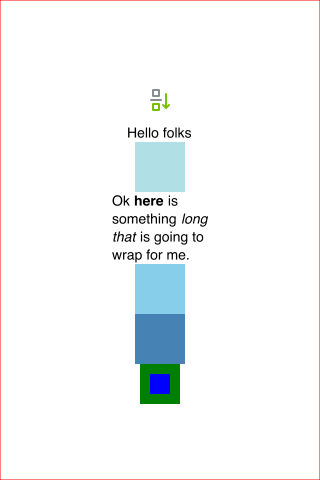
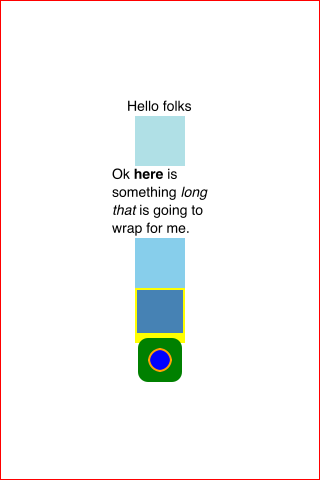
border it up

diff --git a/src/canvas/index.ts b/src/canvas/index.ts
@@ -7,24 +7,97 @@ import * as path from 'path'
 import drawText from './drawText'
 import fetch from 'node-fetch'
 
-import * as Canvas from 'canvas-prebuilt'
+import {createCanvas, Image} from 'canvas'
 
 const getOpacity = node => {
   const {opacity = 1} = styleFromComponent(node)
   return opacity
 }
 
-const renderRect = (ctx, {left, top, width, height}, style) => {
+const roundedPath = (ctx, radius, {top, left, width, height}, stroke) => {
+  ctx.beginPath();
+  top += stroke / 2
+  left += stroke / 2
+  width -= stroke
+  height -= stroke
+  ctx.moveTo(left + radius.tl, top);
+  ctx.lineTo(left + width - radius.tr, top);
+  ctx.arcTo(left + width, top, left + width, top + radius.tr, radius.tr);
+
+  ctx.lineTo(left + width, top + height - radius.br);
+  ctx.arcTo(left + width, top + height, left + width - radius.br, top + height, radius.br);
+
+  ctx.lineTo(left + radius.bl, top + height);
+  ctx.arcTo(left, top + height, left, top + height - radius.bl, radius.bl);
+
+  ctx.lineTo(left, top + radius.tl);
+  ctx.arcTo(left, top, left + radius.tl, top, radius.tl);
+
+  ctx.closePath();
+}
+
+const radiusFromStyle = (style, width, height) => {
+  const all = style.borderRadius || 0
+  const mx = width / 2
+  const my = height / 2
+  const mm = Math.min(mx, my)
+  return {
+    tl: Math.min(mm, style.borderTopLeftRadius || all),
+    tr: Math.min(mm, style.borderTopRightRadius || all),
+    bl: Math.min(mm, style.borderBottomLeftRadius || all),
+    br: Math.min(mm, style.borderBottomRightRadius || all)
+  }
+}
+
+const line = (ctx, y0, x0, y1, x1) => {
+  ctx.beginPath()
+  ctx.moveTo(x0, y0)
+  ctx.lineTo(x1, y1)
+  ctx.stroke()
+}
+
+const renderRect = (ctx, layout, style) => {
+  const radius = radiusFromStyle(style, layout.width, layout.height)
   if (style.backgroundColor) {
     ctx.fillStyle = style.backgroundColor
-    ctx.fillRect(left, top, width, height)
-    ctx.fillStyle = 'transparent'
+    roundedPath(ctx, radius, layout, style.borderWidth ? style.borderWidth / 2 : 0)
+    ctx.fill()
+    // ctx.fillRect(left, top, width, height)
+    // ctx.fillStyle = 'transparent'
   }
   if (style.borderWidth) {
     ctx.strokeStyle = style.borderColor
     ctx.lineWidth = style.borderWidth
-    ctx.strokeRect(left, top, width, height)
+    roundedPath(ctx, radius, layout, style.borderWidth)
+    ctx.stroke()
+    // ctx.strokeRect(left, top, width, height)
     // TODO much more border stuff
+  }
+  const {top, left, width, height} = layout
+  if (style.borderBottomWidth) {
+    console.log('doing it')
+    ctx.lineWidth = style.borderBottomWidth
+    ctx.strokeStyle = style.borderBottomColor || style.borderColor
+    line(ctx, top + height, left, top + height, left + width);
+    ctx.stroke()
+  }
+  if (style.borderLeftWidth) {
+    ctx.lineWidth = style.borderLeftWidth
+    ctx.strokeStyle = style.borderLeftColor || style.borderColor
+    line(ctx, top, left, top + height, left);
+    ctx.stroke()
+  }
+  if (style.borderRightWidth) {
+    ctx.lineWidth = style.borderRightWidth
+    ctx.strokeStyle = style.borderRightColor || style.borderColor
+    line(ctx, top, left + width, top + height, left + width);
+    ctx.stroke()
+  }
+  if (style.borderTopWidth) {
+    ctx.lineWidth = style.borderTopWidth
+    ctx.strokeStyle = style.borderTopColor || style.borderColor
+    line(ctx, top, left, top, left + width);
+    ctx.stroke()
   }
 }
 
@@ -34,7 +107,6 @@ const renderers: {[key: string]: (ctx, settings: Settings, node: RenderedCompone
   RCTScrollView: (ctx, settings, node) => renderers.View(ctx, settings, node),
   Image: async (ctx, settings, node) => {
     const style = styleFromComponent(node)
-    console.log('image', node.props.source)
     if (node.props.source && (node.props.source.testUri || node.props.source.uri)) {
       const uri = node.props.source.testUri || node.props.source.uri
       const opacity = getOpacity(node)
@@ -43,11 +115,11 @@ const renderers: {[key: string]: (ctx, settings: Settings, node: RenderedCompone
       const fullPath = uri
       const {top,left,width,height} = node.layout
       if (fullPath.match(/^https?:\/\//)) {
-        const img = new Canvas.Image()
+        const img = new Image()
         img.src = await fetch(fullPath).then(response => response.buffer())
         ctx.drawImage(img, left, top, width, height)
       } else if (fs.existsSync(fullPath)) {
-        const img = new Canvas.Image()
+        const img = new Image()
         img.src = await prom(done => fs.readFile(fullPath, done));
         ctx.drawImage(img, left, top, width, height)
       } else {
@@ -94,7 +166,7 @@ const renderNode = async (ctx, node: RenderedComponent, settings: Settings) => {
 };
 
 const renderToCanvas = async (dest: string, root: RenderedComponent, settings: Settings) => {
-  const canvas = new Canvas(settings.width, settings.height);
+  const canvas = createCanvas(settings.width, settings.height);
   const ctx = canvas.getContext('2d')
   await renderNode(ctx, root, settings);
   await prom(done => fs.writeFile(dest, canvas.toBuffer(), done))

diff --git a/src/__tests__/Basic.test.tsx b/src/__tests__/Basic.test.tsx
@@ -28,9 +28,13 @@ describe("Counting nodes", () => {
           Ok <Text style={{fontWeight: "bold"}}>here</Text> is something <Text style={{fontStyle: 'italic'}}>long that </Text>is going to wrap for me.
         </Text>
         <View style={{width: 50, height: 50, backgroundColor: "skyblue"}} />
-        <View style={{width: 50, height: 50, backgroundColor: "steelblue"}} />
-        <View style={{padding: 10, backgroundColor: 'green'}}>
-          <View style={{padding: 10, backgroundColor: 'blue'}}>
+        <View style={{width: 50, height: 50, backgroundColor: "steelblue",
+          borderBottomWidth: 10,
+          borderColor: 'yellow',
+          borderWidth: 2,
+        }} />
+        <View style={{padding: 10, backgroundColor: 'green', borderRadius: 10}}>
+          <View style={{padding: 10, backgroundColor: 'blue', borderRadius: 100, borderColor: 'orange', borderWidth: 2}}>
           </View>
         </View>
       </View>

diff --git a/src/canvas/drawText.ts b/src/canvas/drawText.ts
@@ -66,7 +66,7 @@ export default (ctx, fontState: FontCache, {left, top, width, height}, style: an
 
     attributedStyles.forEach(({ start, end, style }, i) => {
       const fill = style.color;
-      const fontFamily = fontWithFallbacks(fontState, style);
+      const fontFamily = fontWithFallbacks(fontState, style.fontFamily);
       // const fontWeight = style.fontWeight || 'normal';
       // const fontStyle = style.fontStyle || 'normal';
       const fontSize = style.fontSize || 12; /** TODO have a default? */
@@ -81,6 +81,7 @@ export default (ctx, fontState: FontCache, {left, top, width, height}, style: an
       if (style.fontStyle !== 'normal') {
         font = `${style.fontStyle} ${font}`
       }
+      // console.log('font here', text.slice(start,end), font)
       ctx.font = font
       ctx.fillText(text.slice(start, end), x, originY)
 

diff --git a/src/index.ts b/src/index.ts
@@ -3,9 +3,8 @@ import treeToSVG from "./svg/tree-to-svg"
 import treeToCanvas from "./canvas"
 import layoutRoot, {Component, Settings} from './layout/'
 
-const Canvas = require('canvas-prebuilt')
-console.log('CANVAS', Canvas, Canvas.registerFont)
-// export {registerCanvasFont}
+const {registerFont: registerCanvasFont} = require('canvas')
+export {registerCanvasFont}
 
 export {Component, Settings}
 
